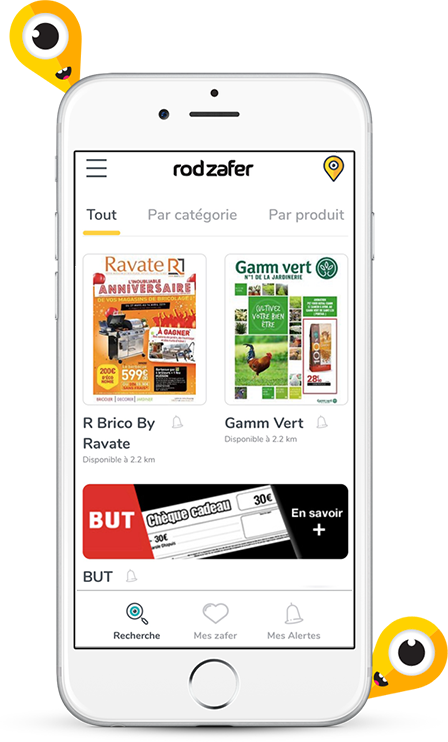
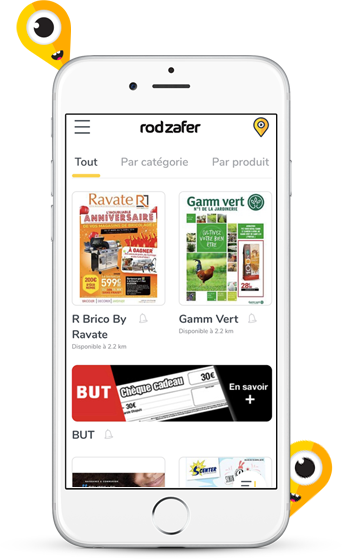
traitement mise en page

diff --git a/css/style.css b/css/style.css
@@ -2,25 +2,26 @@ body{font-family:Arial!important;color:#000;}
 *{ box-sizing:border-box;}
 .top .navbar{border:0;border-radius: 0;margin-bottom:0;min-height:94px;background:#fff;}
 .top.sticky .navbar{ box-shadow: 0 2px 2px rgba(0, 0, 0, 0.4);}
-.top #myNavbar{margin-top:30px;}
+.top #myNavbar{margin-top:28px;}
+.navbar-nav{margin:0 0 0 60px;}
 .navbar-right{margin-right:0!important;}
 .navbar-inverse .navbar-nav>li{margin:0 10px;}
 .navbar-inverse .navbar-nav>li:last-child{margin:0;}
-.navbar-inverse .navbar-nav>li>a{color:#000;webkit-transition: all 0.4s ease-in-out 0s;-moz-transition: all 0.4s ease-in-out 0s;-ms-transition: all 0.4s ease-in-out 0s;-o-transition: all 0.4s ease-in-out 0s;transition: all 0.4s ease-in-out 0s;font-size:14px;}
-.navbar-inverse .navbar-nav>li>a.download{background:#ffd204;display:table;font-size:14px;font-weight:bold;padding:5px 30px;box-shadow:4px 4px 0 #dfdfdf;}
+.navbar-inverse .navbar-nav>li>a{color:#000;webkit-transition: all 0.4s ease-in-out 0s;-moz-transition: all 0.4s ease-in-out 0s;-ms-transition: all 0.4s ease-in-out 0s;-o-transition: all 0.4s ease-in-out 0s;transition: all 0.4s ease-in-out 0s;font-size:16px;}
+.navbar-inverse .navbar-nav>li>a.download{background:#ffd204;display:table;font-size:16px;font-weight:bold;padding:7px 20px;box-shadow:4px 4px 0 #dfdfdf;margin-top:-3px;}
 .navbar-inverse .navbar-nav>.active>a.download,.navbar-inverse .navbar-nav>li>a.download:hover,a.download,.navbar-inverse .navbar-nav>li>a.download:focus{color:#fff;background:#079ca0;}
 .navbar-inverse .navbar-nav>.active>a, .navbar-inverse .navbar-nav>.active>a:focus, .navbar-inverse .navbar-nav>.active>a:hover{background:none;color:#079ca0;webkit-transition: all 0.4s ease-in-out 0s;-moz-transition: all 0.4s ease-in-out 0s;-ms-transition: all 0.4s ease-in-out 0s;-o-transition: all 0.4s ease-in-out 0s;transition: all 0.4s ease-in-out 0s;}
 .navbar-inverse .navbar-nav>li>a:focus, .navbar-inverse .navbar-nav>li>a:hover{color:#09a2a7;}
 .container-fluid{padding-right:0;padding-left:0;}
 .content_rod{position:relative;/*margin-bottom:100px;*/}
 .content_rod .image_header{width:100%;height:auto;}
-.content_down_app{position:absolute;bottom:0;/*width:100%;*/text-align:left;padding-left:205px;}
+.content_down_app{position:absolute;bottom:23px;/*width:100%;*/text-align:left;padding-left:205px;}
 .content_down_app a{display:inline-block;margin:0 10px;}
 .content_down_app a img{max-width:190px;height:auto;}
 .titre{text-align:center;background: url("../images/back_titre.jpg") no-repeat center bottom;padding-bottom:20px;font-size:22px;text-transform:uppercase;margin:0 0 35px 0;line-height: normal; letter-spacing:5px;font-weight:600;}
 #offre_exclusives h3{text-align:center;margin:0 0 98px 0;padding:0;font-size:19px;/*font-weight:600;*/}
 .logo_partenaire{margin:0 0 20px 0;padding:0;display:block;}
-.list_offre ul{list-style-type:none;text-align:center ;margin:0 0 30px -112px;padding:0;}
+.list_offre ul{list-style-type:none;text-align:center ;margin:0 0 88px -112px;padding:0;}
 .list_offre ul li{display: inline-block;margin:0 30px 0 30px;max-width:280px;vertical-align:top;}
 .list_offre ul li a:hover{text-decoration:none;}
 .text_logo_partenaire{display:block;}
@@ -39,8 +40,8 @@ section{/*margin-bottom:50px;*/border:0!important; outline: none!important;}
 .content_acceder a{display: inline-table;background:#ffd204;color:#fff;text-transform:uppercase;font-size:38px;padding:5px 40px;font-weight:normal;}
 .content_acceder a:hover{text-decoration:none;}
 #telecharger_appli{width:100%;padding:40px 0 0 0;background:#f6f6f6;}
-#telecharger_appli .telecharger_appli_inner{padding:60px 0 60px 0;background:url(../images/back_appli_v2.png) no-repeat left top;background-size: cover;position:relative;}
-.oeil_gauche{position:absolute;left:0;top:-90px;}
+#telecharger_appli .telecharger_appli_inner{padding:25px 0 60px 0;background:url(../images/back_appli_v2.png) no-repeat left top;background-size: cover;position:relative;}
+.oeil_gauche{position:absolute;left:0;top:-55px;}
 .oeil_gauche img{max-width:242px;}
 .content_down_appli{margin-top:30px;position:relative;}
 .content_oeil{position:absolute;top:-60px;right:0;}
@@ -48,7 +49,7 @@ section{/*margin-bottom:50px;*/border:0!important; outline: none!important;}
 #telecharger_appli .titre{background:none;padding:0;font-size:22px;font-weight:bold;position:relative; z-index:100;}
 .content_down_app_telecharger_appli{width:100%;margin:0;padding:0;text-align:center;}
 .content_down_app_telecharger_appli a{display:inline-block;margin:0 10px;position:relative; z-index:100;}
-.content_down_app_telecharger_appli a img{width:100%;height:auto;max-width:150px;border:1px solid #fff;}
+.content_down_app_telecharger_appli a img{width:100%;height:auto;max-width:147px;border:1px solid #fff;}
 .content_inner_pourquoi{text-align:center;}
 .nav>li>a{padding:5px 20px;}
 #contact{width:100%;background:url(../images/back_content_contact.png) no-repeat left center; background-size:cover;color:#fff;padding-bottom:0;margin-bottom:0;}
@@ -66,7 +67,8 @@ section{/*margin-bottom:50px;*/border:0!important; outline: none!important;}
 #Suivez_nous .list_reseaux_socio a{display:inline-block;margin:0 10px;color:#000;font-size:25px;}
 #Suivez_nous .list_reseaux_socio a:hover{color:#27afa8;}
 .content_suit_inner{border-top:1px solid #000;border-bottom:1px solid #000;padding:15px 0;text-align:center;}
-.content_suit_inner p{font-size:16px;margin:0;padding:0;}
+.content_suit_inner p{font-size:16px;margin:0;padding:0;font-weight:600;}
+.content_suit_inner p i{font-size:30px;margin-left:5px;position:relative;top:5px;}
 .content_suit_inner p span{color:#27afa8;}
 .content_suit_inner p a{color:#27afa8;text-decoration:none;}
 #foot_top{background:#22afa9;padding:25px 0;margin:0;}
@@ -105,7 +107,7 @@ section#dernier_zafer .bg_gris{padding-bottom:0;}
 .owl-carousel .owl-nav button.owl-next, .owl-carousel .owl-nav button.owl-prev{text-indent:-9000px;width:17px;height:32px;}
 .owl-carousel .owl-nav button.owl-prev span{background:url(../images/back_fleche_prev.jpg) no-repeat left top;width:17px;height:32px;display:block;}
 .owl-carousel .owl-nav button.owl-next span{background:url(../images/back_fleche_next.jpg) no-repeat left top;width:17px;height:32px;display:block;}
-.navbar-brand{margin-left:15px!important;padding:31px 0 0 0;}
+.navbar-brand{margin-left:15px!important;padding:20px 0 0 0;}
 #dernier_zafer .modal-body{text-align:center;}
 #dernier_zafer .modal-body  img{max-width:inherit;width:100%;height:auto;max-width:420px;}
 .owl-carousel .item{padding:0 25px;}
@@ -257,7 +259,14 @@ section#dernier_zafer .bg_gris{padding-bottom:0;}
 #confiance .owl-prev,#confiance .owl-next{top:20%;}
 .couv_dernier_affaire{background:#f6f6f6;padding-top:37px;}
 .image_header{display:block;}
-	.image_header_mobile{display:none;}
+.image_header_mobile{display:none;}
+.content_confiance .titre{margin-bottom:62px;}
+@media screen and (max-width: 1280px) {
+	.image_header{display:none;}
+	.image_header_mobile{display:block;}
+	.image_header_mobile{width:100%;height:auto;}
+	.navbar-nav{margin:0;float:right;}
+}
 @media screen and (max-width: 1024px) {
     .top .logo{max-width:100px;}
     /*.top #myNavbar{margin-top:20px;}*/
@@ -268,15 +277,19 @@ section#dernier_zafer .bg_gris{padding-bottom:0;}
 	.content_down_app a img{max-width:130px;}
 	.image_header{display:none;}
 	.image_header_mobile{display:block;}
+	.top #myNavbar{margin-top:20px;}
 }
 @media screen and (max-width: 991px) {
 	.col1.col-md-4{width:100%;}
 	.col2.col-md-4{width:100%;}
 	.col3.col-md-4{width:100%;}
-	.top_content_pourquoi{width:50%;float:left;}
+	.top_content_pourquoi{width:50%;float:left;margin-bottom:20px;}
 	.bottom_content_pourquoi{width:50%;float:left;margin-top:50px;}
 	.top_content_pourquoi{margin-top:50px;}
 	.col1 .bottom_content_pourquoi{margin-top:50px;}
+	.navbar-inverse .navbar-nav>li{margin:0 5px;}
+	.navbar-inverse .navbar-nav>li>a{font-size:12px;}
+	
 }
 @media screen and (max-width:768px) {
 	.navbar-inverse .navbar-nav>li{margin:0 5px;}

diff --git a/page_accueil_road_zafer.html b/page_accueil_road_zafer.html
@@ -29,7 +29,7 @@
           </a>
         </div>
         <div class="collapse navbar-collapse" id="myNavbar">
-          <ul class="nav navbar-nav navbar-right">
+          <ul class="nav navbar-nav">
             <li class="list_menu">
               <a href="#offre_exclusives">Nos offres</a>
             </li>
@@ -54,7 +54,7 @@
     <div class="container-fluid">
       <div class="content_rod">
         <div class="content_header_une">
-          <img src="images/image_header_rod_v4.jpg" class="img-responsive image_header">
+          <img src="images/image_header_rod_v7.jpg" class="img-responsive image_header">
           <img src="images/image_une_mobile.jpg" class="img-responsive image_header_mobile">
 
         </div>
@@ -227,7 +227,7 @@
       <div class="container">
         <div class="content_down_appli">
           <div class="oeil_gauche">
-            <img src="images/image_oeil_gauche_v2.png">
+            <img src="images/image_oeil_gauche_v1.png">
           </div>
           <h2 class="titre">Télécharger l’application</h2>
           <div class="content_inner_telecharger_appli">
